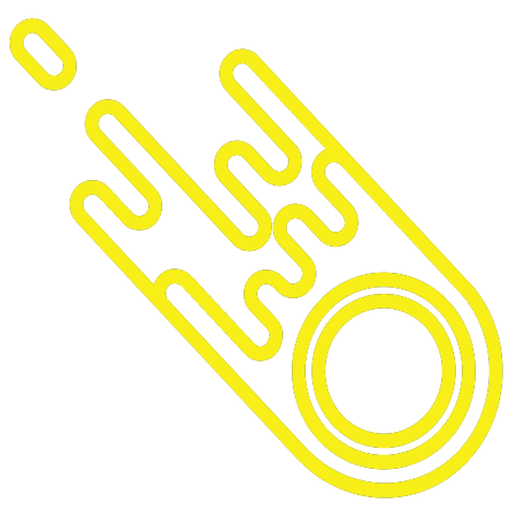
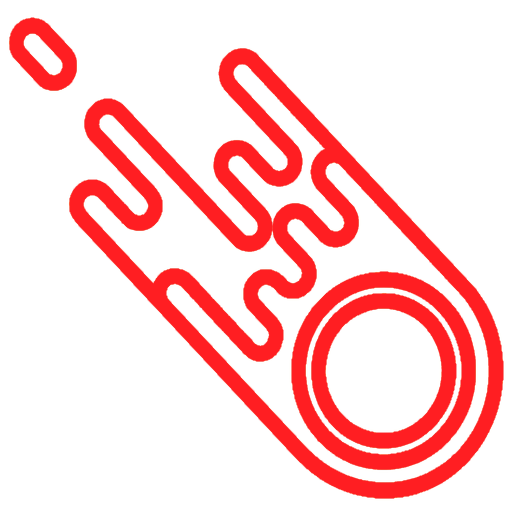
comet change

Changed region(s): [[0.125, 0.0938, 1.0, 1.0], [0.0, 0.0312, 0.1562, 0.1875]]

diff --git a/app/landing/static/landing/landing.css b/app/landing/static/landing/landing.css
@@ -32,7 +32,7 @@ body {
    
   }
   .comet{
-     --glow-color: #F7EF17;
+     --glow-color: #FF1E22;
      
   }
   .scroll{
